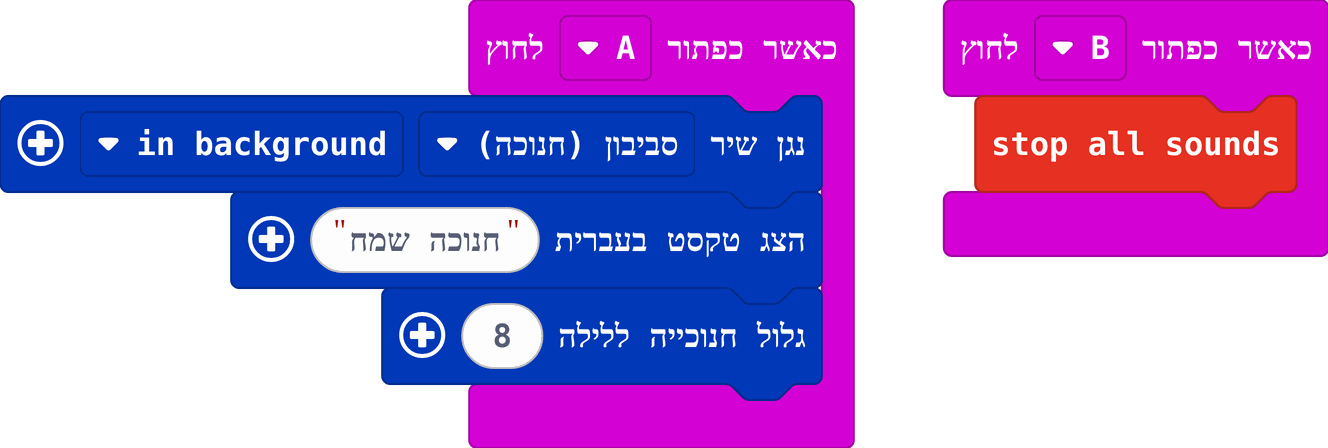
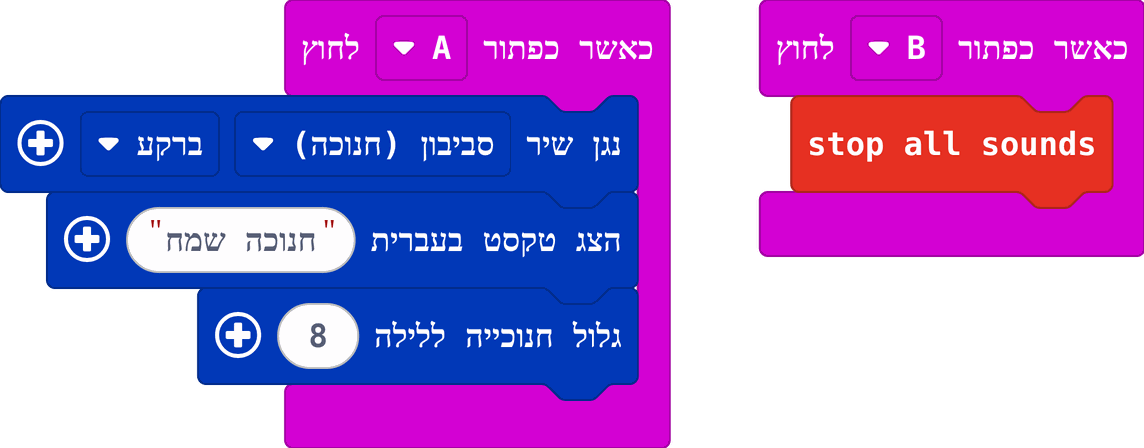
Release 1.1.1 with Hebrew song play mode in the README
Claude-Session: https://claude.ai/code/session_019kNNwD3LTNhCYU1fh6vXAZ

Changed region(s): [[0.0, 0.0, 1.0, 1.0], [0.8872, 0.4062, 0.9484, 0.4688], [0.4895, 0.625, 0.5201, 0.6875]]

diff --git a/README.md b/README.md
@@ -75,7 +75,7 @@ for (let night = 0; night <= 7; night++) {
 בדוגמה, הלולאה גוללת את כל שמונת לילות החנוכה ברצף (הלולאה סופרת מ-0 עד 7, ולכן הלילה הוא המספר ועוד 1).
 
 ### מוזיקה
-<img src="docs/images/music.png" alt="music" width="923">
+<img src="docs/images/music.png" alt="music" width="853">
 
 <details><summary>הצג קוד</summary>
 
@@ -86,7 +86,7 @@ input.onButtonPressed(Button.A, function () {
 })
 input.onButtonPressed(Button.B, function () {
     israel.showSymbol(IsraelSymbol.Dreidel)
-    israel.playSong(IsraeliSong.MaozTzur, music.PlaybackMode.UntilDone, 150)
+    israel.playSong(IsraeliSong.MaozTzur, SongPlayMode.UntilDone, 150)
 })
 ```
 
@@ -117,13 +117,13 @@ input.onButtonPressed(Button.B, function () {
 * **עד הסוף** – התוכנית מחכה שהשיר ייגמר, ורק אז ממשיכה לבלוק הבא.
 * **ברקע** – השיר מתחיל, והתוכנית ממשיכה מיד. כך אפשר להציג טקסט או אנימציה בזמן שהשיר מתנגן.
 * **ברקע בלולאה** – השיר חוזר שוב ושוב, עד ש"עצור את כל הצלילים" או עד ששיר אחר מתחיל.
-<img src="docs/images/music-background.png" alt="music-background" width="664">
+<img src="docs/images/music-background.png" alt="music-background" width="572">
 
 <details><summary>הצג קוד</summary>
 
 ```blocks
 input.onButtonPressed(Button.A, function () {
-    israel.playSong(IsraeliSong.Sevivon, music.PlaybackMode.InBackground)
+    israel.playSong(IsraeliSong.Sevivon, SongPlayMode.InBackground)
     israel.showHebrew("חנוכה שמח")
     israel.scrollHanukkiah(8)
 })
@@ -413,7 +413,7 @@ basic.showNumber(israel.israelAge(2026))
 מחזיר את גיל מדינת ישראל בשנה שבוחרים.
 
 ## דוגמה: יום העצמאות
-<img src="docs/images/independence-day.png" alt="independence-day" width="651">
+<img src="docs/images/independence-day.png" alt="independence-day" width="616">
 
 <details><summary>הצג קוד</summary>
 
